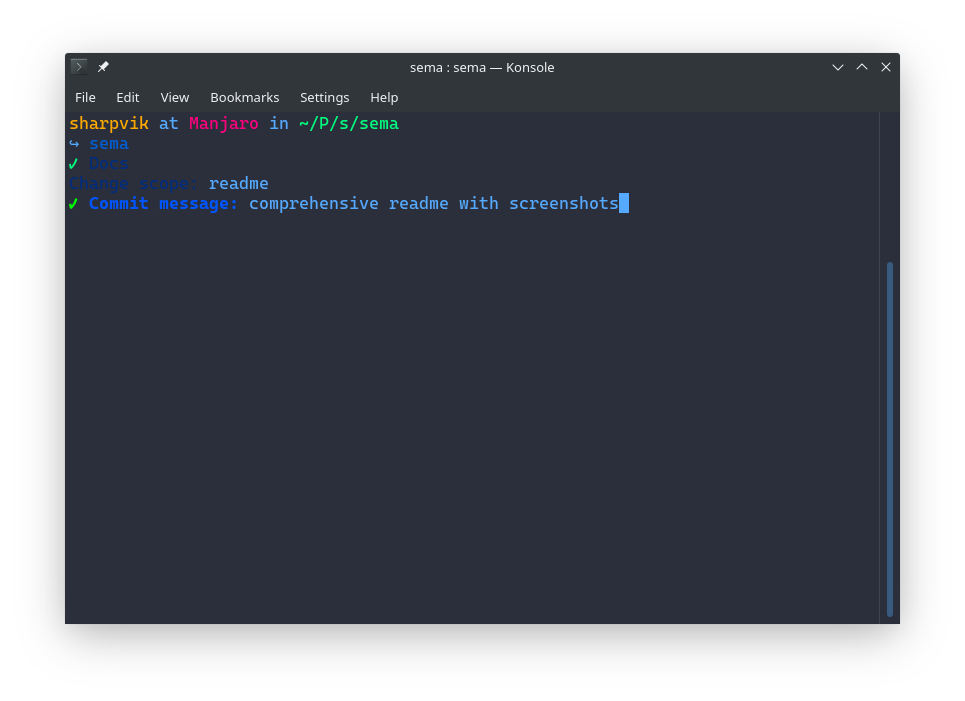
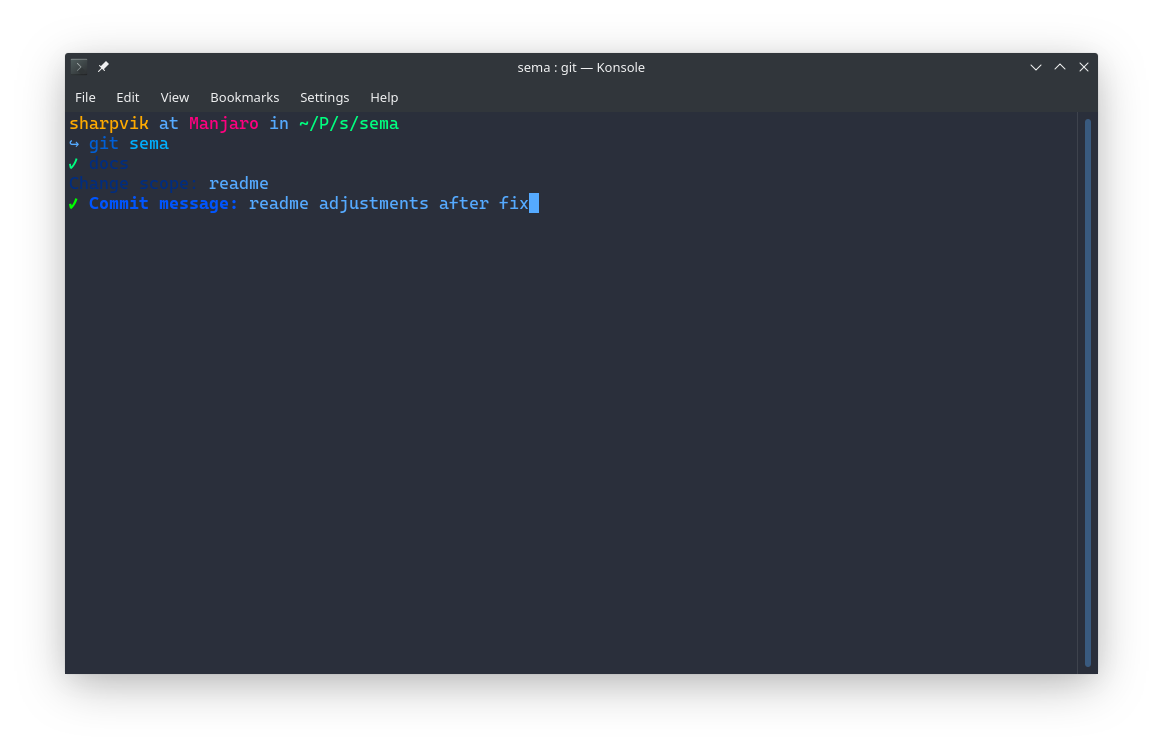
docs(readme): readme adjustments after fix

Changed region(s): [[0.0311, 0.0599, 0.9637, 0.8987]]

diff --git a/README.md b/README.md
@@ -21,15 +21,15 @@ TYPE(SCOPE): MESSAGE
 Where `SCOPE` tells you about the scope of changes, `MESSAGE` summarises those
 in a concise way, and `TYPE` is a short label from the following:
 
-- `Feat`: new feature for the user
-- `Fix`: bug fix for the user
-- `Docs`: changes to the documentation
-- `Style`: formatting with no production code change
-- `Refactor`: refactoring production code
-- `Test`: adding missing tests, refactoring tests
-- `Chore`: updating grunt tasks
+- `feat`: new feature for the user
+- `fix`: bug fix for the user
+- `docs`: changes to the documentation
+- `style`: formatting with no production code change
+- `refactor`: refactoring production code
+- `test`: adding missing tests, refactoring tests
+- `chore`: updating grunt tasks
 
-> You can see the list of these labels with explanations using `sema -help`.
+> You can see the list of these labels with explanations using `sema --help`.
 
 ## Installation
 
@@ -39,11 +39,19 @@ go install github.com/sharpvik/sema  # => $GOPATH/bin/sema
 
 **NOTICE:** Make sure that your `$GOPATH/bin` is in `$PATH`!
 
+**HACK:** After the default installation, the `sema` command will be available.
+However, if you rename that binary file to `git-sema`, you will be able to use
+it as follows (as if it's part of the default `git` tools):
+
+```bash
+git sema
+```
+
 ## Usage
 
 ```bash
-sema -help  # if you need a hint
-sema        # to commit changes in current repo
+sema --help  # if you need a hint
+sema         # to commit changes in current repo
 ```
 
 ![label](img/label.png)
